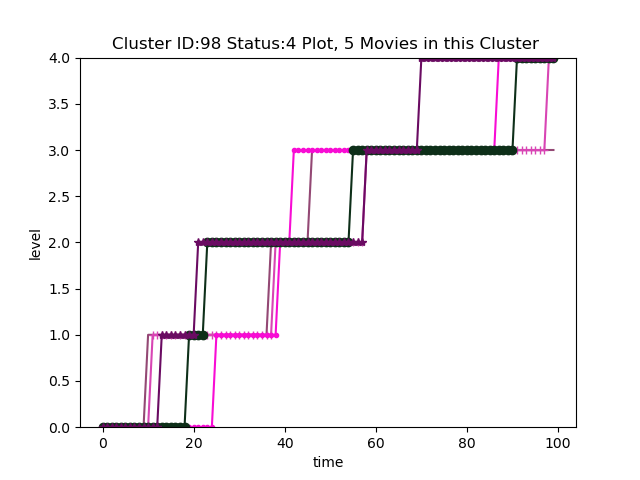
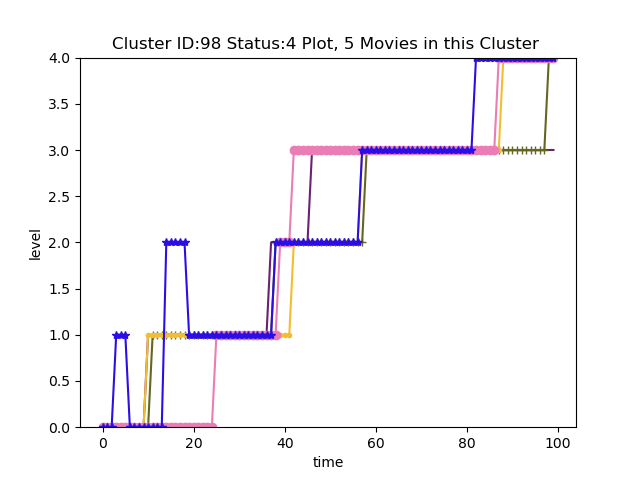
cluster plot update

Changed region(s): [[0.1562, 0.125, 0.875, 0.9062]]

diff --git a/general/plot_process_2.py b/general/plot_process_2.py
@@ -149,13 +149,16 @@ def compare_cluster(status_cluster, movie_status, project_id, char_index, status
 
 
 # find target cluster number
-def movies_status_cluster(movies_plot, status, min_threshold=10):
+def movies_status_cluster(movies_plot, status, min_threshold=10, iterate=0):
 
     status_cluster = []
     # print("threshold searching iteration epoch {cur_iterate}, current threshold {cur_th}, max iteration {max}"
     #       .format(cur_iterate=cur_iterate, cur_th=edc_dis, max=max_iterate))
-    keys = list(movies_plot.keys())
-    random.shuffle(keys)
+    if iterate == 0:
+        keys = list(movies_plot.keys())
+    else:
+        keys = list(movies_plot.keys())
+        random.shuffle(keys)
     for p_i in keys:
         movie_plot = movies_plot[p_i]
         movie_status = movie_plot.down_sample_status
@@ -195,7 +198,7 @@ def split_cluster_group(status_cluster, status_index):
     for cls_group in cluster_group.keys():
         x = np.arange(len(cluster_group[cls_group][0].cluster))
         for cls in cluster_group[cls_group]:
-            plt.plot(x, cls.cluster, c=np.random.rand(3, ), label='cluster id : {}, movie number : {}'
+            plt.plot(x, cls.cluster, c=np.random.rand(3, ), label='cls:{},m_num:{}'
                      .format(cls.project_ids[0], len(cls.project_ids)))
         plt.title('Cluster movies number range {m_range}'
                   .format(m_range=cls_group))
@@ -216,36 +219,49 @@ def plot_main(movies, n=10,  max_cluster=30, cluster_plt=False, project_id=None,
 
     selected_status_cluster = []
     selected_movie = movies_plot
-    min_edc = 6.3
+    min_edc = 6
     # while len(selected_movie) > 5:
-    iterate = 0
-    while iterate < 200:
+    count_c = 0
+    coverage = 0
+    cur_max_coverage = 0
+    while coverage < 75 and count_c < 50:
+        print('epoch {}'.format(count_c))
+        selected_status_cluster = []
+        selected_movie = movies_plot
+        iterate = 0
+        while iterate < 200:
+            status_cluster = movies_status_cluster(selected_movie, status,  min_threshold=min_edc, iterate=iterate)
+            selected_movie = {}
+            for cluster in status_cluster:
+                if 3 < len(cluster.project_ids) < 9:
+                    selected_status_cluster.append(cluster)
+                    continue
+                else:
+                    for p_id in cluster.project_ids:
+                        selected_movie[p_id] = movies_plot[p_id]
 
-        status_cluster = movies_status_cluster(selected_movie, status,  min_threshold=min_edc)
-        selected_movie = {}
-        for cluster in status_cluster:
-            if 4 < len(cluster.project_ids) < 9:
-                selected_status_cluster.append(cluster)
-                continue
-            else:
-                for p_id in cluster.project_ids:
-                    selected_movie[p_id] = movies_plot[p_id]
+            iterate += 1
+        coverage = len(movies_plot.keys()) - len(selected_movie.keys())
+        if coverage > cur_max_coverage:
+            print("update max coverage to {}".format(coverage))
+            cur_max_coverage = coverage
+            selected_status_max_cluster = selected_status_cluster
+        count_c += 1
 
-        iterate += 1
 
     print("distance threshold for status {st_id} is {dis_th}, number of cluster {cls_num} clustered {clsed_n}"
-          .format(st_id=status, dis_th=min_edc, cls_num=len(selected_status_cluster)
-                  , clsed_n=len(movies_plot.keys())-len(selected_movie.keys())))
+          .format(st_id=status, dis_th=min_edc, cls_num=len(selected_status_max_cluster)
+                  , clsed_n=coverage))
 
     if all_movie:
         plot_all(movies_plot, status)
     elif project_id is not None:
         plot_by_id(movies_plot, project_id, status)
     elif cluster_plt:
-        for cls in selected_status_cluster:
+        for cls in selected_status_max_cluster:
             cls.cluster_plot(status)
             cls.head_ranked_plot(status)
-        split_cluster_group(selected_status_cluster, status)
+        split_cluster_group(selected_status_max_cluster, status)
 
     else:
         print("plot args wrong")
